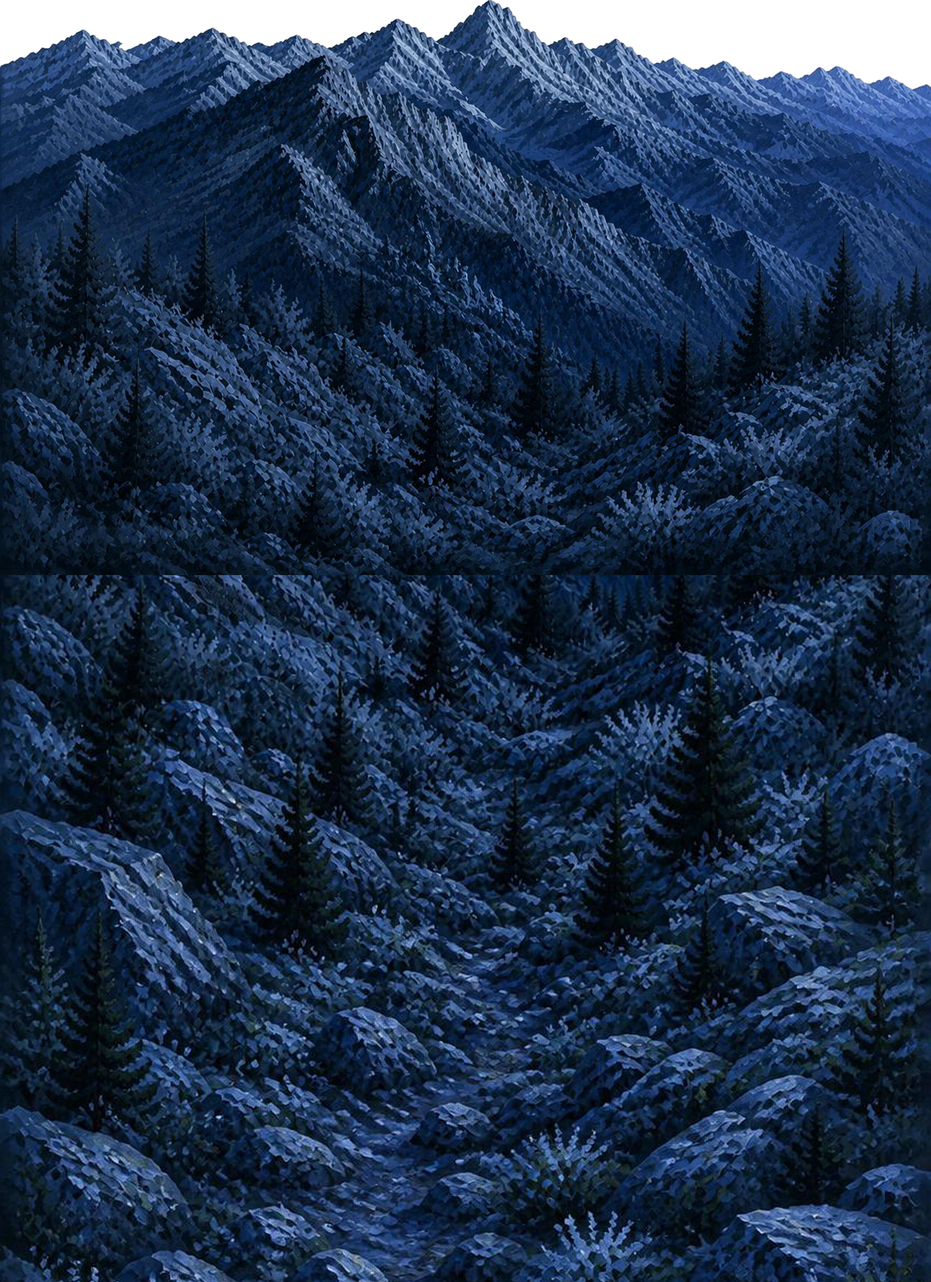
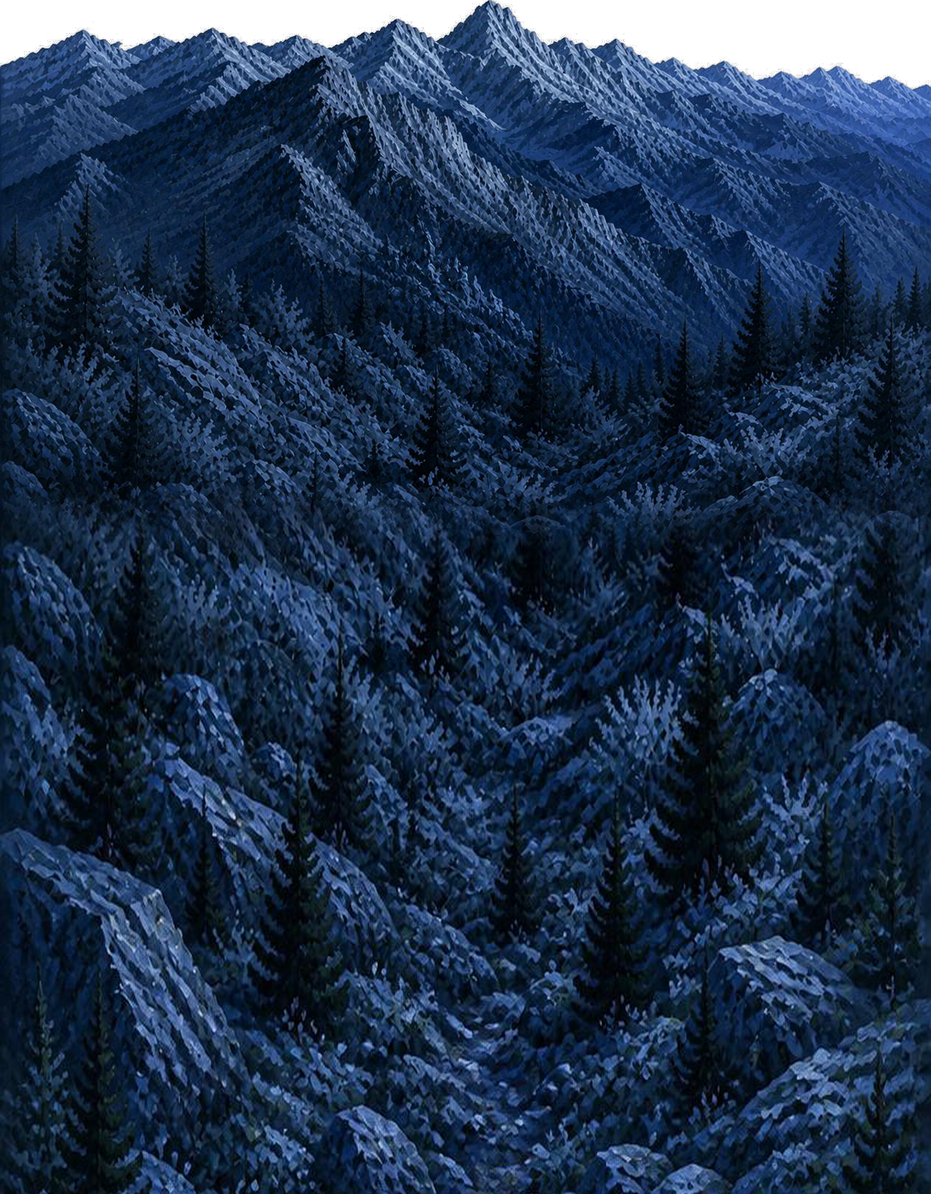
Repair parallax extensions and foreground interaction

diff --git a/src/components/village-parallax-scene.tsx b/src/components/village-parallax-scene.tsx
@@ -14,12 +14,12 @@ const PHASE_B_END = 0.68; // position locked, day -> night
 // phase C (0.68 -> 1): black wheatfield rises to cover
 
 // Sun/moon share one quarter-circle arc: a center point below the
-// mountains, swept from 180deg (level with the center, off to the side —
-// occluded, "under the mountains") to 90deg (directly above the center —
-// clear of them). See the scroll effect for how each body's position on
-// this arc is derived.
+// mountains, swept from 180deg (level with the center, off to the side)
+// to 90deg (directly above the center). At their high endpoint they sit
+// above the mountain stack so the mountain artwork cannot swallow them;
+// the closer village layers can still occlude them naturally.
 const ARC_CENTER_X_PCT = 66;
-const ARC_CENTER_Y_VH = 54;
+const ARC_CENTER_Y_VH = 43;
 const ARC_RADIUS_VH = 45;
 const ARC_START_DEG = 180;
 const ARC_END_DEG = 90;
@@ -149,6 +149,7 @@ function DayNightPair({
         className={imageClass}
         style={{ opacity: `calc(1 - ${DAYNIGHT_T})` }}
         priority={priority}
+        unoptimized
       />
       <Image
         src={night}
@@ -157,6 +158,7 @@ function DayNightPair({
         height={nightDims[1]}
         className={imageClass}
         style={{ opacity: DAYNIGHT_T }}
+        unoptimized
       />
     </div>
   );
@@ -346,19 +348,18 @@ export function VillageParallaxScene() {
           ))}
         </div>
 
-        {/* sun — high and bright at rest, retreats around the arc back
-            under the mountains (lower in the stack) with an accelerating
+        {/* sun — high and bright at rest, retreats around the arc with an accelerating
             ease-in; also drifts gently with the cursor, on top of its
             scroll-driven arc position. Cursor-drift depth ordering across
             the whole scene, slowest to fastest (farthest to closest):
-            sun/moon (3,1.5) < mountains (6,3) < hills-village (11,5) <
-            main-village (20,0) — the sun/moon sit "past" the mountains,
+            sun/moon (3,1.5) < mountains (6,3) < hills-village (13,6) <
+            main-village (22,4) — the sun/moon sit "past" the mountains,
             so they move even less than the layer in front of them. */}
         <div
           aria-hidden
           className="pointer-events-none absolute aspect-square w-[10vw] max-w-[132px] min-w-[64px]"
           style={{
-            zIndex: 1,
+            zIndex: 3,
             left: reduceMotion ? sunRestLeft : arcLeft("--sun-x"),
             top: reduceMotion ? sunRestTop : arcTop("--sun-y"),
             opacity: reduceMotion ? 1 : "var(--sun-opacity, 1)",
@@ -375,7 +376,7 @@ export function VillageParallaxScene() {
           aria-hidden
           className="pointer-events-none absolute aspect-square w-[9vw] max-w-[118px] min-w-[58px]"
           style={{
-            zIndex: 1,
+            zIndex: 3,
             left: reduceMotion ? moonRestLeft : arcLeft("--moon-x"),
             top: reduceMotion ? moonRestTop : arcTop("--moon-y"),
             opacity: reduceMotion ? 0 : "var(--moon-opacity, 0)",
@@ -389,14 +390,9 @@ export function VillageParallaxScene() {
             directly off the source PNG: at the sun's horizontal position
             the peak's opaque content starts only ~7.7% down the image,
             and on a standard 16:9 laptop width that box renders taller
-            than the viewport itself, so with no offset the peak reaches
-            well above y=0 and hides the sun (and later the moon, which
-            rests at the same height) behind it. Shifted down enough to
-            clear that, with a trimmed scale buffer (its pointer
-            amplitude is tiny, so it never needed the full 1.14x other
-            layers use) rather than an even larger shift. Moving the
-            mountains down, not the sun, keeps the sun's liked position
-            intact. */}
+            than the viewport itself. Its original measured offsets remain
+            unchanged; celestial clearance is handled by the sun/moon
+            position and stacking, not by moving this layer. */}
         <Layer
           entered={entered}
           z={2}
@@ -411,8 +407,8 @@ export function VillageParallaxScene() {
           <DayNightPair
             day="/images/parallax-mountains-day.png"
             night="/images/parallax-mountains-night.png"
-            dayDims={[1264, 1741]}
-            nightDims={[1264, 1741]}
+            dayDims={[1264, 1621]}
+            nightDims={[1264, 1621]}
             box="aspect-[1264/781]"
             priority
           />
@@ -434,14 +430,14 @@ export function VillageParallaxScene() {
           enteredStyle={on}
           delayMs={180}
           scrollY={assembleY(4, -9)}
-          pointerAmp={[11, 5]}
+          pointerAmp={[13, 6]}
           scaleBuffer={1.14}
         >
           <DayNightPair
             day="/images/parallax-hills-village-day.png"
             night="/images/parallax-hills-village-night.png"
-            dayDims={[1264, 1288]}
-            nightDims={[1264, 1288]}
+            dayDims={[1264, 1173]}
+            nightDims={[1264, 1173]}
             box="aspect-[1264/330]"
             dropShadow
           />
@@ -457,13 +453,13 @@ export function VillageParallaxScene() {
         <div aria-hidden className="pointer-events-none absolute bottom-0 left-0 w-full" style={{ zIndex: 4 }}>
           <div
             className="origin-bottom scale-[1.14]"
-            style={{ transform: `translate3d(${pointer(20, 0).x}, calc(${assembleY(85, 3)} + ${pointer(20, 0).y}), 0)` }}
+            style={{ transform: `translate3d(${pointer(22, 4).x}, calc(${assembleY(85, 3)} + ${pointer(22, 4).y}), 0)` }}
           >
             <DayNightPair
               day="/images/parallax-main-village-day.png"
               night="/images/parallax-main-village-night.png"
-              dayDims={[1264, 1734]}
-              nightDims={[1264, 1734]}
+              dayDims={[1264, 1618]}
+              nightDims={[1264, 1618]}
               box="aspect-[1264/791]"
               dropShadow
             />

diff --git a/HANDOVER.md b/HANDOVER.md
@@ -1,7 +1,8 @@
 # Handover — Irina's Narrative Website
 
 Originally written at commit `cbd736d` on `main`, then updated on
-2026-08-11 after the downward-extension work in §9 was completed.
+2026-08-11 after the downward-extension work in §9 and its visual
+seam/cutout repair were completed.
 Written for whoever (human or AI) picks this up next.
 
 ## 1. What this project is
@@ -197,7 +198,7 @@ but stylistically-matched layers can visually fuse into one.
   seam under `object-fit: cover` (before that was abandoned). Full-bleed
   like mountains, not a centered/bounded floating island (an earlier
   iteration had it bounded and it read as too small / disconnected).
-  `scrollY={assembleY(4, -9)}`, `pointerAmp={[11, 5]}` — sped up
+  `scrollY={assembleY(4, -9)}`, `pointerAmp={[13, 6]}` — sped up
   relative to mountains on both scroll and cursor parallax per explicit
   feedback that the depth differential wasn't strong enough.
 - **Main-village** (z=4, closest of the three village layers): *not*
@@ -208,8 +209,10 @@ but stylistically-matched layers can visually fuse into one.
   natural bottom-anchored rest position on purpose. This is the fix for
   a real bug (background exposed below the layer's own visible content)
   — solved via **positioning**, not pixel manipulation. See §6 for why
-  the pixel-manipulation attempt was reverted.
-- **Sun / Moon** (z=1, behind mountains): share one quarter-circle arc,
+  the pixel-manipulation attempt was reverted. Cursor parallax is
+  `pointer(22, 4)`, including deliberate vertical response.
+- **Sun / Moon** (z=3, above mountains but below the closer village
+  artwork): share one quarter-circle arc,
   computed in JS every scroll frame (`ARC_CENTER_X_PCT/Y_VH/RADIUS_VH/
   START_DEG/END_DEG` constants) since CSS `calc()` has no trig
   functions. Center sits below the mountains; sweeping from 180°
@@ -224,8 +227,11 @@ but stylistically-matched layers can visually fuse into one.
   moon start exactly there. Opacity is tied to the same phase, fading
   only in the last ~1/6 of each body's own phase, so they visibly swap
   at the horizon with a brief moment of neither being visible — never
-  both. Both also drift gently with the cursor (`pointer(14, 8)`) like
-  the layers below them.
+  both. Both also drift gently with the cursor (`pointer(3, 1.5)`). The
+  arc uses `ARC_CENTER_X_PCT=66`, `ARC_CENTER_Y_VH=43`, and
+  `ARC_RADIUS_VH=45`; the mountain offsets remain the original
+  `assembleY(26, 23)`. Celestial clearance must be adjusted here, never
+  by moving the mountain layer.
 - **Wheatfield / black cover** (z=6): a short black "curtain"
   (`h-[18vh]`, was `42vh` — "significantly shorter" per feedback) rises
   during phase C. The wheat image sits *above* the block's leading edge
@@ -358,8 +364,10 @@ manipulation.
 
 ## 7. Current state / what's verified
 
-- Latest commit: `cbd736d` on `main`. `tsc --noEmit`, `npm run lint`,
-  `npm run build` all clean as of that commit.
+- The original handover baseline was `cbd736d`; the first extension
+  pass was `6507e52`. Use `git log -3 --oneline` for the current repair
+  commit. Type-check, lint, and production-build results are recorded
+  in §9.
 - The parallax hero has been visually verified across: day rest state,
   mid day→night transition (sun and moon never simultaneously visible),
   locked night state, phase-C wheatfield/cover, and multiple viewport
@@ -395,11 +403,12 @@ Nothing is currently a known bug. These are gaps, not defects:
 The user's latest request (three parts, all given in one message):
 
 1. **Cursor-parallax depth ordering** — ✅ DONE, committed to the file
-   (not yet git-committed, see below). Sun/moon `pointer(14,8)` →
+   Sun/moon `pointer(14,8)` →
    `pointer(3,1.5)`; mountains `pointerAmp={[4,2]}` → `{[6,3]}`.
-   Hills-village `[11,5]` and main-village `pointer(20,0)` were already
-   correctly faster and untouched. Verified via `tsc --noEmit` and
-   `npm run lint`, both clean.
+   A later feedback pass increased hills-village `[11,5]` → `[13,6]`
+   and main-village `pointer(20,0)` → `pointer(22,4)`, adding the missing
+   vertical response to the foreground. Verified via `tsc --noEmit`
+   and `npm run lint`, both clean.
 2. **API configuration documented safely** — ✅ DONE (§5 records the
    provider and environment-variable names; the live key is redacted).
 3. **Downward image outpainting for 6 images** (mountains-day/night,
@@ -445,17 +454,26 @@ post-processing — this is what all the scratchpad scripts below do:
    add new houses/structures, only continue the empty ground/hillside"
    was important for the village layers, to stop it inventing new
    buildings in the margin).
-2. **Chroma-key BOTH the original raw source and the AI result to RGBA**
-   independently (reuse `chroma_key_pair.py`'s `key_to_rgba` logic).
-3. **Alpha-composite the AI result UNDER the original**, with a ~40px
-   vertical overlap into the original's own fade zone, using standard
+2. **Undo the API's non-uniform canvas resize before compositing.** The
+   edit endpoint forced the tall input into its fixed portrait result;
+   restoring that result with one width-derived scale compressed the
+   generated ground vertically and caused the hard horizontal splice
+   reported after `6507e52`. Restore X to the raw width and restore Y
+   independently so `boundary_frac` lands at the raw image's original
+   height.
+3. **Chroma-key BOTH the original raw source and the restored AI result
+   to RGBA** with border-connected background removal. Exact/nearly
+   white exterior is removed, but pale enclosed house paint remains
+   opaque; this is what prevents holes in walls and roofs.
+4. **Alpha-composite the AI result UNDER the original**, with a 160px
+   overlap and a smooth 132px terrain dissolve, using standard
    "A over B": `out_rgb = orig_rgb*orig_a + ai_rgb*(1-orig_a)`. Wherever
-   the original is fully opaque (`alpha==255`), this is **mathematically
-   exact pixel preservation** (verified: 100% of alpha==255 pixels
-   diffed to 0 against the original, for every image tried). Wherever
-   the original has faded to transparent (soft/jagged brush edges), the
-   new content shows through instead of leaving a transparent gap.
-4. **Why not a hard row-cut instead of alpha-compositing?** Tried that
+   the original is above the lowest terrain blend band it remains
+   exact; only that bottom terrain band is dissolved into the generated
+   continuation. This small exception to literal pixel preservation is
+   necessary to remove the white chroma-key fringe the user identified,
+   without changing any house architecture or upper-scene placement.
+5. **Why not a hard row-cut instead of alpha-compositing?** Tried that
    first (`composite_extend.py`, `composite_extend2.py` in scratchpad —
    superseded, don't use). Two raw sources (hills-village,
    main-village) turned out to have a **big pure-white margin between
@@ -469,7 +487,7 @@ post-processing — this is what all the scratchpad scripts below do:
    overlap is what actually makes it disappear, because the original's
    own semi-transparent edge pixels blend naturally into solid new
    content instead of sitting on a hard line.
-5. **The final, correct script is `extend_pipeline.py`** (scratchpad
+6. **The final corrected script is `extend_pipeline_connected.py`** (scratchpad
    dir below) — takes one raw source + one AI result, does steps 2–3
    automatically, finds the real content-bottom and the AI's own
    solid-content-start past its mask boundary, and outputs one RGBA
@@ -504,7 +522,9 @@ Key files there:
 - `run_outpaint.sh` — driver: prep base+mask → call API → decode →
   (calls the now-superseded `composite_extend.py`, ignore that last
   step, its output isn't what got used).
-- `extend_pipeline.py` — **the script that matters**, see above.
+- `extend_pipeline_connected.py` — **the corrected script that matters**;
+  it includes connected-key mattes, inverse non-uniform resize, lower-edge
+  erosion, and the registered terrain dissolve described above.
 - `rgba-<name>.png` — the 6 completed alpha-composited source results.
   `rgba-<name>-flat.png` are flattened-onto-white versions for
   eyeballing; `cropped-<name>.png` are the aligned final candidates.
@@ -578,19 +598,32 @@ as an implementation record; every item below was completed on
 
 ### Completion record — 2026-08-11
 
-- Final aligned sizes: mountains `1264×1741` (2.23× old height),
-  hills-village `1264×1288` (3.90×), main-village `1264×1734` (2.19×).
-- Every fully opaque pixel in the old deployed top regions compared
-  byte-for-byte identical after compositing and cropping. Day/night
-  strict-alpha overlap measured 0.9890, 0.9933, and 0.9429 respectively;
-  the lower main-village ratio is attributable to foliage/edge coverage,
-  while the shared architectural framing remains aligned.
+- Corrected aligned sizes: mountains `1264×1621`, hills-village
+  `1264×1173`, main-village `1264×1618`. These preserve the original
+  top anchors while supplying the downward safety margin needed at the
+  verified failure states.
+- The upper source artwork and all house architecture remain unchanged;
+  only the lowest terrain band dissolves into the continuation. The
+  border-connected matte keeps pale wall/roof paint opaque instead of
+  treating it as white background and punching holes through houses.
 - `DayNightPair` now top-anchors contained images at intrinsic aspect
   ratio while retaining each old `box` aspect ratio as the fixed scene
   footprint. The extra content overflows only downward.
-- Browser verification covered desktop rest, assembly lock,
-  day-to-night, locked night, wheatfield cover, and a 390px viewport.
-  No page background was exposed and the mountains offset remained valid.
+- Browser verification after the corrective pass covered the exact
+  reported desktop assembly-lock state (`1600×900`, progress ≈0.382),
+  day-to-night (≈0.531), and locked night (≈0.680). The old horizontal
+  band is gone, the continuation covers the layer underneath, and the
+  house silhouettes remain intact.
+- The six changing parallax images use Next Image's documented
+  `unoptimized` path so a long-running dev session cannot keep serving
+  stale optimizer-cache bytes after the PNGs are replaced in place.
+- A final visual-feedback pass makes the main-village night terrain
+  dissolve complete earlier than the day version, removing its residual
+  bright cutout edge; enclosed near-white islands in the two foreground
+  tree canopies are keyed only inside their foliage/sky zones, preserving
+  pale house walls and roofs. The sun/moon arc was raised and placed
+  above the mountain stack while the mountain offsets stayed exactly at
+  `assembleY(26, 23)` as requested.
 - `tsc --noEmit` and `npm run lint` passed. The production build passed
   with `npx next build --webpack`; default Turbopack could not run its
   internal port-binding worker inside the restricted verification
